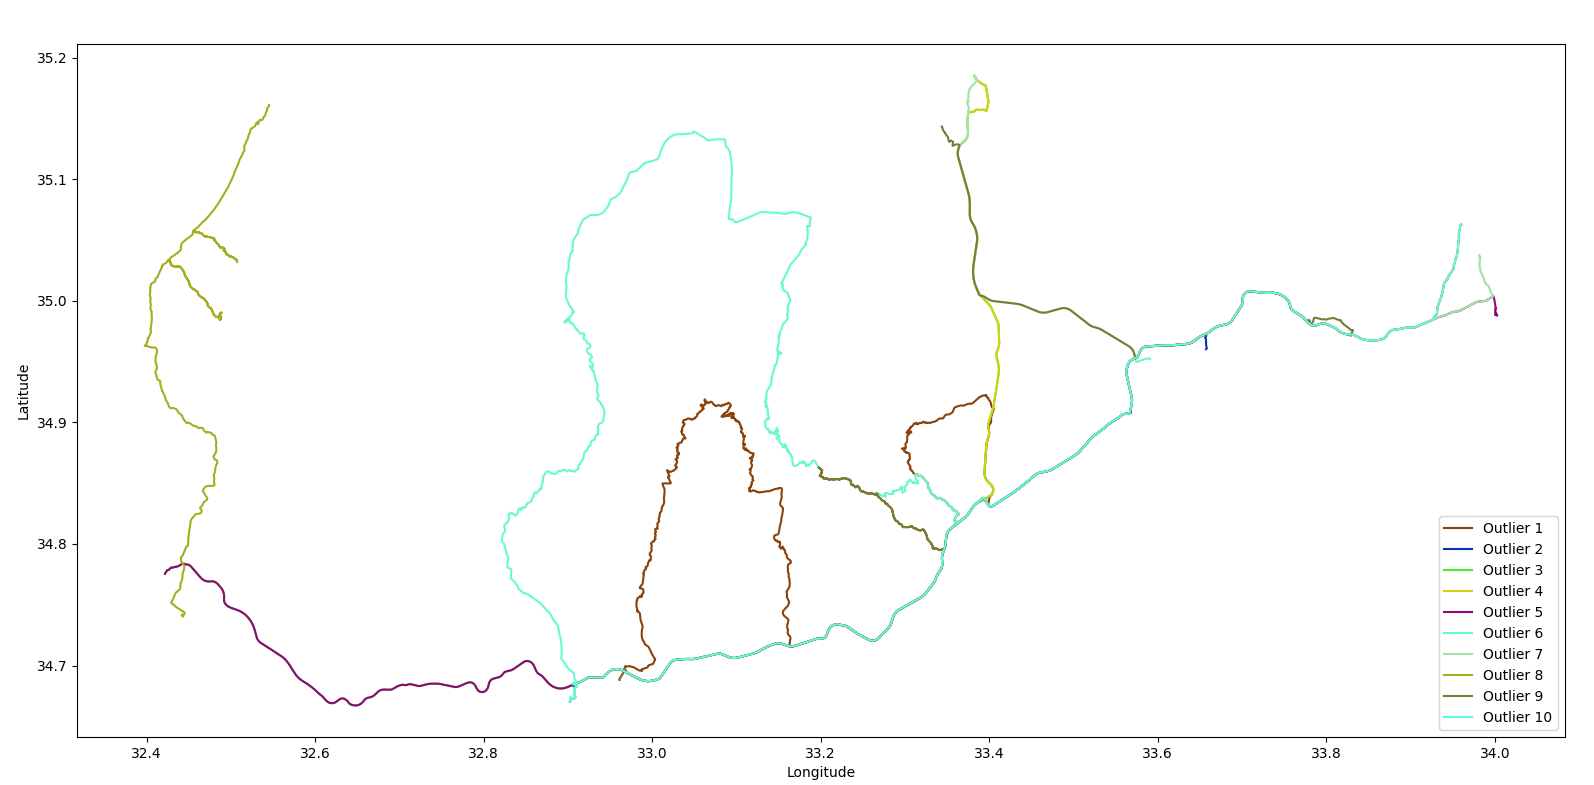
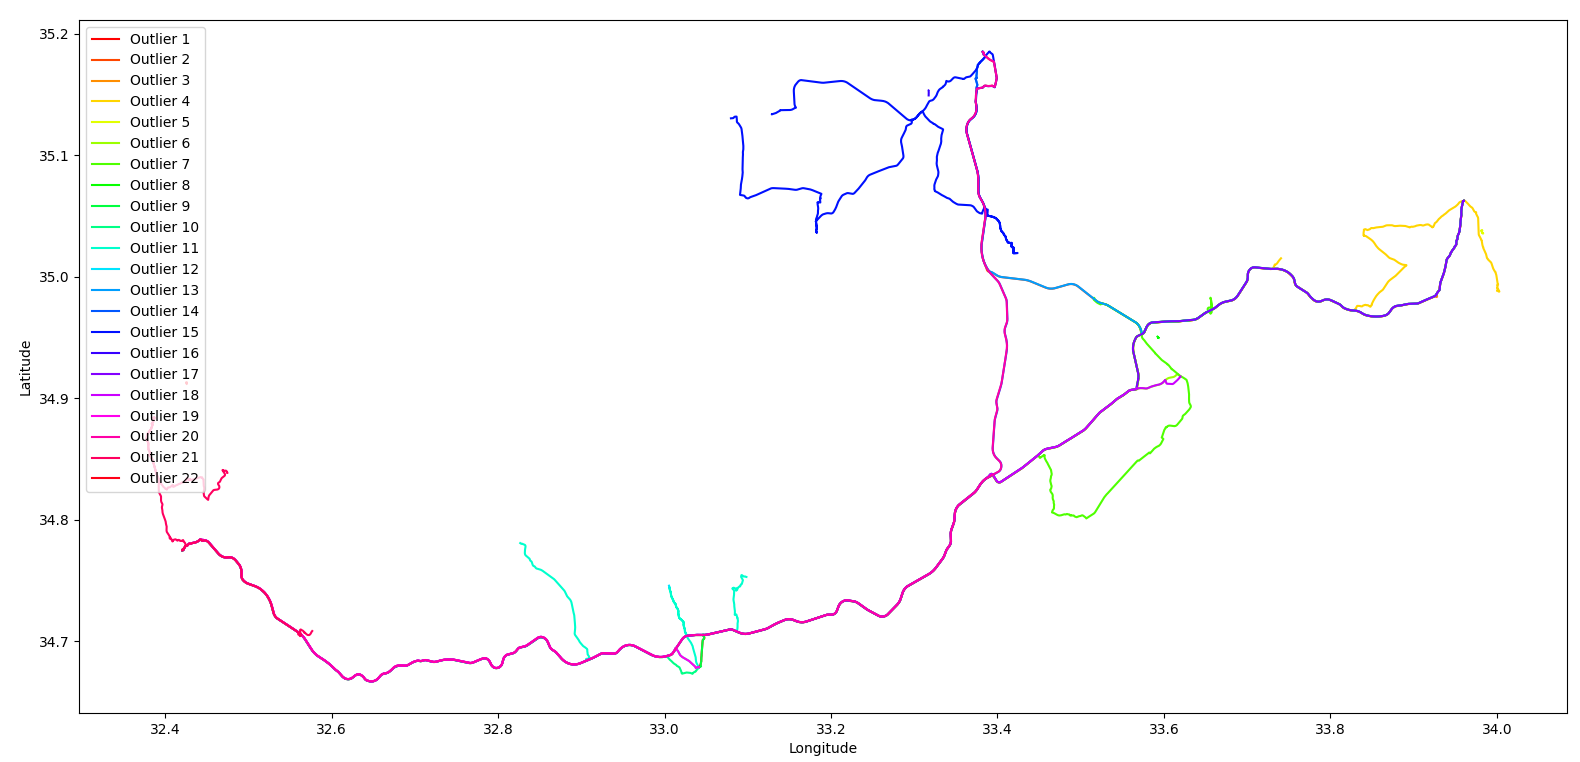
insights

diff --git a/ProposedApproach/TrafficInsights.py b/ProposedApproach/TrafficInsights.py
@@ -1,5 +1,6 @@
 from matplotlib import pyplot as plt
 from matplotlib import colors
+from matplotlib.cm import get_cmap
 import pickle
 import argparse
 import numpy as np
@@ -40,13 +41,14 @@ sampled = sample(outlier_indices, 10)
 
 if plot_manual_outliers and dataset == "cyprus":
     manual_outliers = pickle.load(open("manual_outliers.pkl", "rb"))
-    cmap = colors.ListedColormap(np.random.rand(len(manual_outliers), 3))
+    hsv = get_cmap('hsv', 256)
+    cmap = colors.ListedColormap(hsv(np.linspace(0, 1, len(manual_outliers))))
     for i in range(len(manual_outliers)):
         plt.plot([p[0] for p in manual_outliers[i]], [
                  p[1] for p in manual_outliers[i]], color=cmap.colors[i], label="Outlier "+str(i+1))
     plt.xlabel("Longitude")
     plt.ylabel("Latitude")
-    plt.legend()
+    plt.legend(loc="upper left")
     plt.show()
 
 
